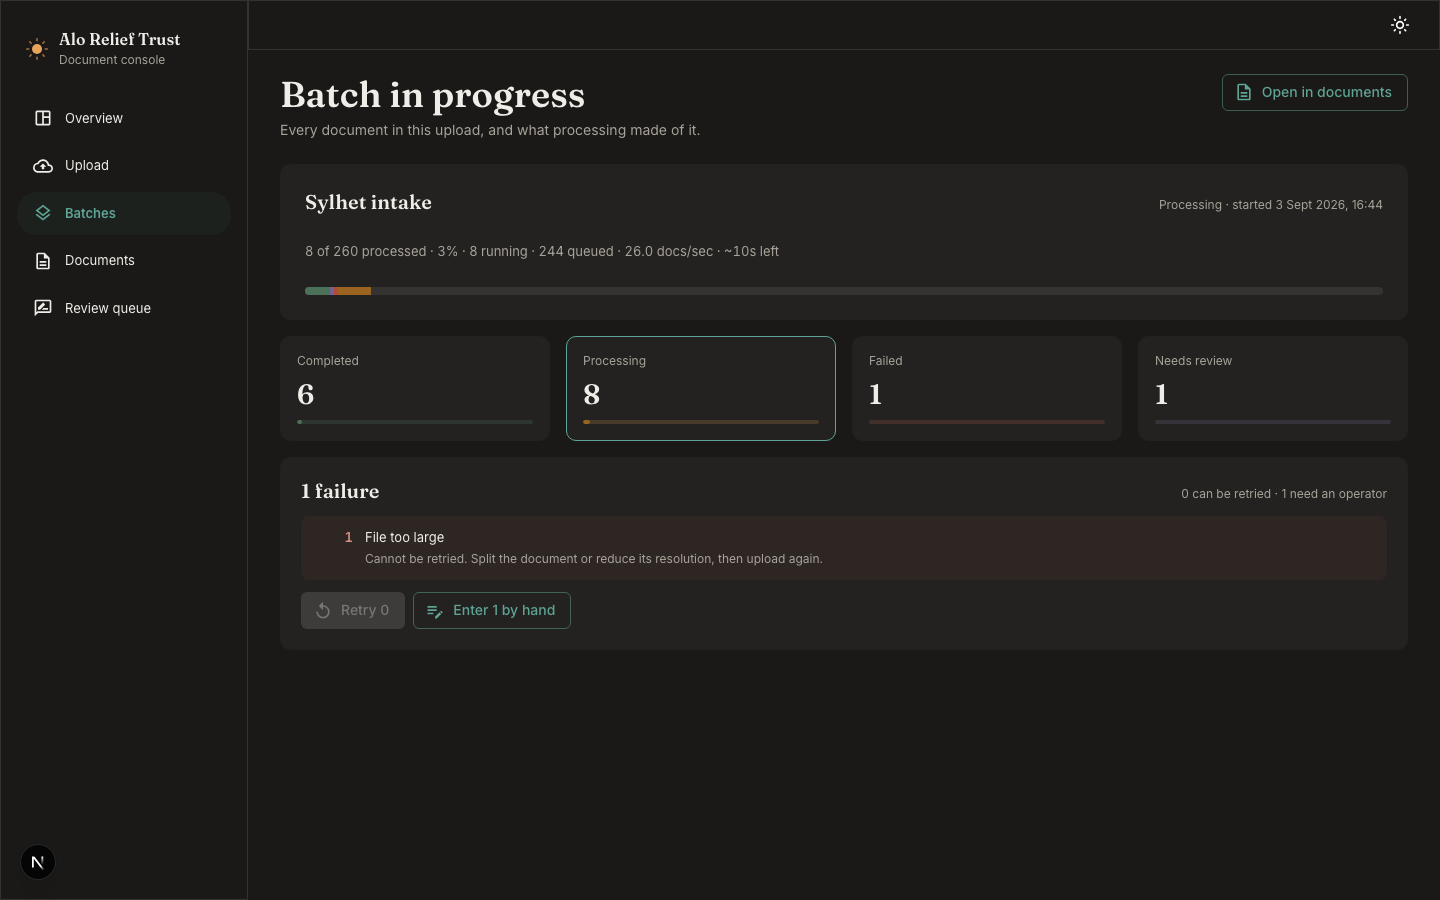
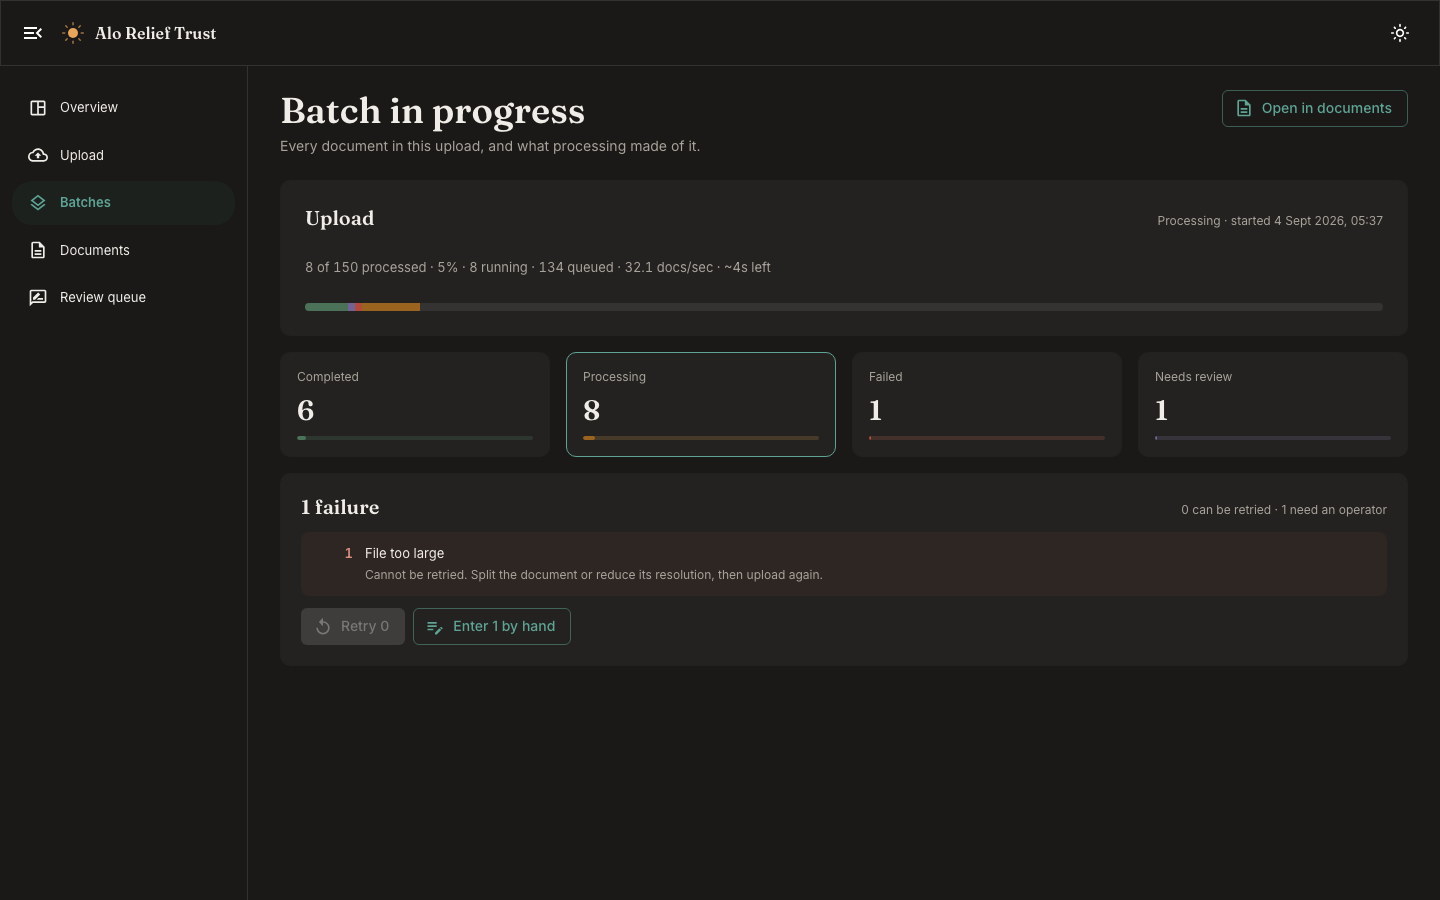
docs: capture the screenshots with a script, and recapture all of them
Every image the README links to showed a shell that no longer exists, and the
overview also predated the archive breakdown. An image of a screen that is gone
is a claim the README is making and getting wrong, which is the same failure the
last two branches were fixing in prose.

They were taken by hand the first time — one still carried the Next.js dev
indicator — so this is a script instead. It drives the app to each state through
the same roles the E2E suite uses, in a fresh context per shot, because the mock
backend keeps one archive per context and an upload from an earlier shot would
otherwise turn up in a later one.

The batch-in-progress shot uploads 150 documents. A handful settles before the
monitor has finished rendering, which photographs a finished batch on the screen
that exists to show one in flight.

diff --git a/scripts/screenshots.ts b/scripts/screenshots.ts
@@ -1,0 +1,149 @@
+import { mkdir } from 'node:fs/promises';
+import { chromium, type Page } from '@playwright/test';
+
+/**
+ * Recaptures every screenshot the README links to.
+ *
+ * Written down rather than done by hand because the shell, the theme and the
+ * pages all change, and a screenshot that is out of date is a claim the README
+ * is making about a screen that no longer exists.
+ *
+ *   pnpm build && pnpm start --port 3100
+ *   pnpm screenshots
+ */
+const BASE = process.env.SCREENSHOT_URL ?? 'http://127.0.0.1:3100';
+const OUT = '.github/screenshots';
+const VIEWPORT = { width: 1440, height: 900 };
+
+/** Accepted formats, so nothing is rejected before it is queued. */
+function files(count: number) {
+  return Array.from({ length: count }, (_, i) => ({
+    name: `intake-${i + 1}.pdf`,
+    mimeType: 'application/pdf',
+    buffer: Buffer.from('%PDF-1.4\n% mock intake scan\n%%EOF\n'),
+  }));
+}
+
+type Shot = {
+  name: string;
+  /** Drives the app to the state worth photographing. */
+  reach: (page: Page) => Promise<void>;
+};
+
+async function open(page: Page, path: string): Promise<void> {
+  await page.goto(`${BASE}${path}`);
+  await page.getByText('Preparing the archive…').waitFor({ state: 'detached', timeout: 30_000 });
+}
+
+async function chooseFiles(page: Page, count = 8): Promise<void> {
+  await open(page, '/upload');
+  await page.locator('input[type="file"][accept]').setInputFiles(files(count));
+  await page.getByText('documents ready to upload').waitFor();
+}
+
+/**
+ * Enough documents that the batch is still working when the monitor renders.
+ *
+ * A handful settles before the page has finished loading, which photographs a
+ * finished batch on the screen meant to show one in flight.
+ */
+const IN_FLIGHT_COUNT = 150;
+
+const SHOTS: Shot[] = [
+  { name: 'overview', reach: (page) => open(page, '/') },
+  { name: 'upload', reach: (page) => open(page, '/upload') },
+  { name: 'upload-summary', reach: (page) => chooseFiles(page) },
+  {
+    name: 'upload-queue',
+    reach: async (page) => {
+      await chooseFiles(page, IN_FLIGHT_COUNT);
+      await page.getByRole('button', { name: 'Start processing' }).click();
+      await page.getByRole('progressbar', { name: 'Upload progress' }).waitFor();
+    },
+  },
+  {
+    name: 'batch-running',
+    reach: async (page) => {
+      await chooseFiles(page, IN_FLIGHT_COUNT);
+      await page.getByRole('button', { name: 'Start processing' }).click();
+      await page.getByRole('heading', { name: 'Batch in progress', level: 1 }).waitFor();
+    },
+  },
+  {
+    name: 'batch-settled',
+    reach: async (page) => {
+      await chooseFiles(page, IN_FLIGHT_COUNT);
+      await page.getByRole('button', { name: 'Start processing' }).click();
+      await page
+        .getByRole('heading', { name: 'Batch complete', level: 1 })
+        .waitFor({ timeout: 120_000 });
+    },
+  },
+  {
+    name: 'documents',
+    reach: async (page) => {
+      await open(page, '/documents');
+      await page.getByRole('grid', { name: 'Documents in the archive' }).waitFor();
+    },
+  },
+  {
+    name: 'document-detail',
+    reach: async (page) => {
+      await open(page, '/documents?status=failed');
+      await page.getByRole('grid', { name: 'Documents in the archive' }).waitFor();
+      await page.getByRole('row').nth(1).click();
+      await page.getByRole('dialog', { name: 'Document detail' }).waitFor();
+    },
+  },
+  {
+    name: 'review-queue',
+    reach: async (page) => {
+      await open(page, '/review');
+      await page.getByRole('list', { name: 'Review queue' }).waitFor();
+    },
+  },
+  {
+    name: 'review-correction',
+    reach: async (page) => {
+      await open(page, '/review');
+      await page
+        .getByRole('list', { name: 'Review queue' })
+        .getByRole('button', { name: /^Review / })
+        .first()
+        .click();
+      await page.getByRole('dialog', { name: 'Document detail' }).waitFor();
+    },
+  },
+];
+
+async function capture(shot: Shot, scheme: 'light' | 'dark'): Promise<void> {
+  const browser = await chromium.launch();
+  // A fresh context per shot: the mock backend keeps one archive per context,
+  // so an upload from an earlier shot would otherwise appear in a later one.
+  const context = await browser.newContext({ viewport: VIEWPORT, colorScheme: scheme });
+  const page = await context.newPage();
+
+  try {
+    await shot.reach(page);
+    // Long enough for the drawer and the progress bars to have settled.
+    await page.waitForTimeout(700);
+    await page.screenshot({ path: `${OUT}/${shot.name}-${scheme}.png` });
+    console.log(`captured ${shot.name}-${scheme}`);
+  } finally {
+    await browser.close();
+  }
+}
+
+async function main(): Promise<void> {
+  await mkdir(OUT, { recursive: true });
+
+  for (const shot of SHOTS) {
+    for (const scheme of ['light', 'dark'] as const) {
+      await capture(shot, scheme);
+    }
+  }
+}
+
+// Called rather than awaited at the top level: tsx compiles this file to CJS,
+// where a top-level await is a syntax error.
+void main();
